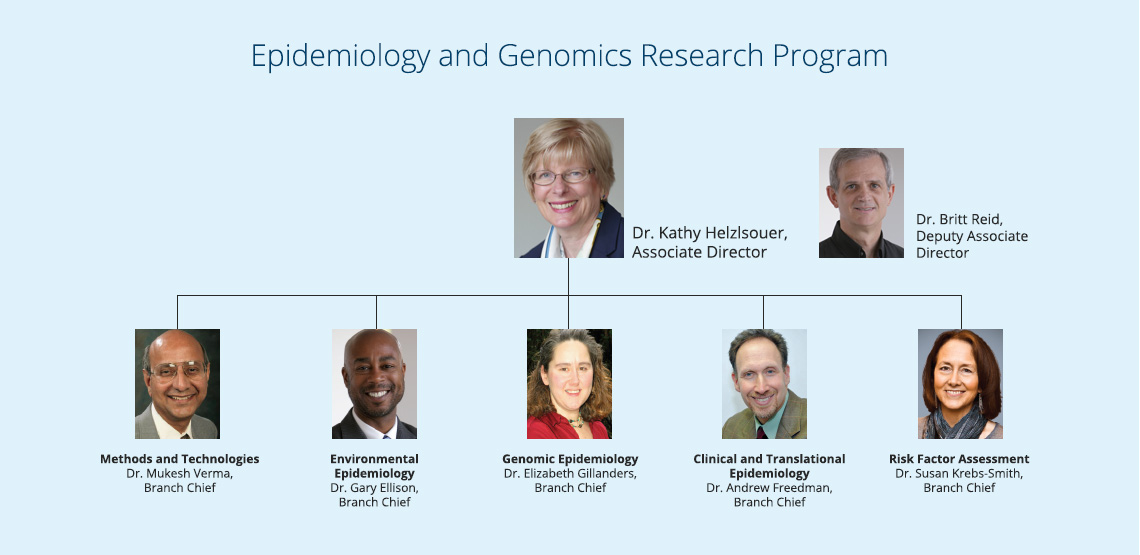
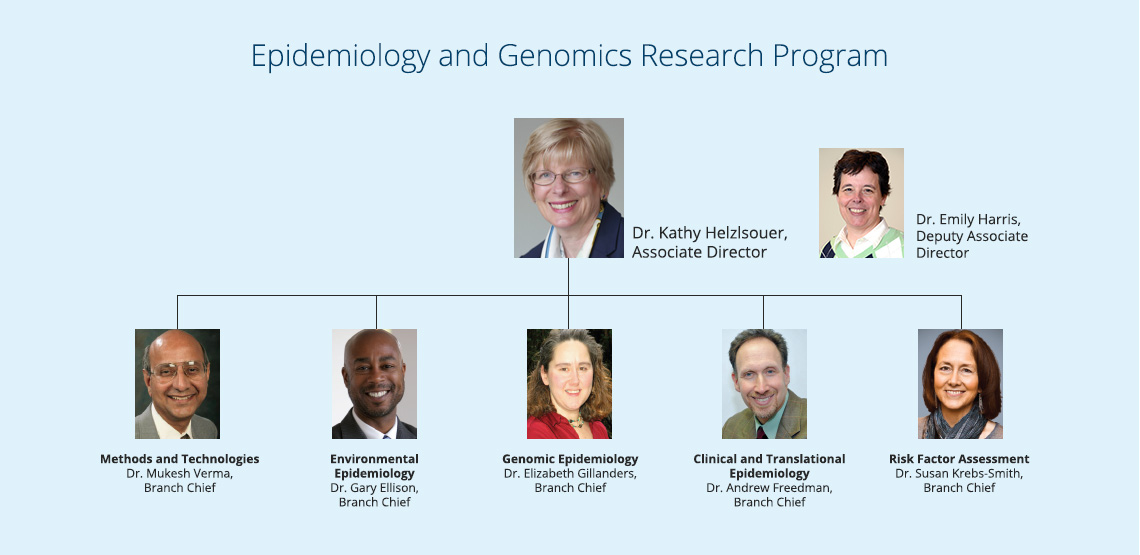
updates to org chart and responsive updates

Changed region(s): [[0.7061, 0.245, 0.7982, 0.4901], [0.8289, 0.3676, 0.8904, 0.4288]]

diff --git a/od/orgchart.html b/od/orgchart.html
@@ -246,35 +246,38 @@ height="0" width="0" style="display:none;visibility:hidden" title="Google Tag Ma
         <div class="col-md-9">
         <!-- InstanceBeginEditable name="Main-Content" -->
                   
-                  	<img src="../images/bb_org-sm.jpg" alt="Orgchart" width="877" height="1150" border="0" usemap="#map3" />
-                  	<map name="map3"><area shape="rect" coords="552,152,865,229" href="/od/srinivasan.html" alt="Dr. Shobha Srinivasan, Health Disparities Research Coordinator">
-                  	<area shape="rect" coords="53,493,403,556" href="https://healthcaredelivery.cancer.gov/about/" alt="Health Systems and Interventions Research - Dr. Sarah Korbin" >
-                  	<area shape="rect" coords="55,303,407,364" href="https://healthcaredelivery.cancer.gov/about/" alt="Healthcare Assessment Research - Dr. Paul Jacobson" >
-                  	<area shape="rect" coords="54,870,406,930" href="https://epi.grants.cancer.gov/eeb/" alt="Environmental Epidemiology - Dr. Gary Ellison">
-                  	<area shape="rect" coords="492,430,844,490" href="https://surveillance.cancer.gov/branches/dqaib/" alt="Data Quality, analysis, and Interpretation - Serban Negoita"><area shape="rect" coords="510,804,848,866" href="/brp/" alt="Behavioral Research Program - Dr. Linda Nebeling, deputy associate director">
-                    <area shape="rect" coords="10,152,325,229" href="/IS/chambers.html" alt="Deputy Director for Implementation Science - Dr. David Chambers">
-        			<area shape="rect" coords="491,620,841,682" href="https://surveillance.cancer.gov/branches/srab/" alt="Statistical Methodology and Applications - Dr. Eric Feuer">
-					<area shape="rect" coords="54,995,404,1057" href="https://epi.grants.cancer.gov/cteb/" alt="Clinical and Translational Epidemiology Branch - Dr. Andrew Feedman">
-					<area shape="rect" coords="491,492,842,554" href="https://surveillance.cancer.gov/branches/sib/" alt="Surveillance Informatics - Dr. Paul Fearn">
-					<area shape="rect" coords="54,1058,405,1120" href="https://epi.grants.cancer.gov/staff/krebs-smith.html" alt="Risk Factor Assessment - Dr. Susan Krebs-Smith">
-					<area shape="rect" coords="492,1059,849,1119" href="/brp/tcrb/"  alt="Tobacco Control Research Branch - Dr. Michele Bloch" >
-					<area shape="rect" coords="492,931,849,992" href="/brp/hbrb/index.html" alt="Health Behaviors Research Branch - Dr. Susan Czajkowski">
-					<area shape="rect" coords="492,994,848,1055" href="/brp/hcirb/" alt="Health Communication &amp; Informatics Research Branch - Dr. Bradford Hesse">
-					<area shape="rect" coords="55,933,405,992" href="https://epi.grants.cancer.gov/geb/" alt="Genomic Epidemiology - Dr. Elizabeth Gillanders">
-					<area shape="rect" coords="492,556,841,616" href="https://surveillance.cancer.gov/branches/dqaib/" alt="Data Analysis - Dr. Serban Negoita">
-					<area shape="rect" coords="53,556,403,618" href="https://healthcaredelivery.cancer.gov/about/orb/" alt="Outcomes Research Branch - Dr. Ashley Wilder Smith" >
-					<area shape="rect" coords="54,432,404,492" href="https://healthcaredelivery.cancer.gov/about/harb/" alt="Healthcare Assessment Research - Dr. Paul Doria-Rose" >
-					<area shape="rect" coords="492,868,847,929" href="/brp/bbpsb/index.html" alt="Basic Behavioral &amp; Research Branch - Dr. Paige Green" >
-					<area shape="rect" coords="71,743,408,806" href="https://epi.grants.cancer.gov/oad/" alt="Epidemiology &amp; Genomics Research Program - Dr. Britt Reid, deputy associate director">
-					<area shape="rect" coords="509,367,843,429" href="https://surveillance.cancer.gov/" alt="Surveillance Systems - Dr. Kathleen Cronin, deputy associate director">
-					<area shape="rect" coords="53,367,405,429" href="https://healthcaredelivery.cancer.gov/about/staff/bios/geiger.html" alt="Health Services &amp; Economics Branch - Dr. Ann Geiger">
-					<area shape="rect" coords="53,807,407,867" href="https://epi.grants.cancer.gov/mtb/" alt="Methods and Technologies Branch - Dr. Mukesh Verma">
-					<area shape="rect" coords="491,302,840,365" href="https://surveillance.cancer.gov/"  alt="Surveillance Research Program - Dr. Lynn Penberthy, associate director">
-					<area shape="rect" coords="491,741,849,803" href="/brp/" alt="Behavioral Research Program - Dr. William Klein, associate director">
-					<area shape="rect" coords="52,679,407,742" href="https://epi.grants.cancer.gov/oad/" alt="Epidemiology &amp; Genomics Research Program - Kathy Helzlsouer, M.D., M.H.S., associate director">
-					<area shape="rect" coords="7,23,323,103" href="dep_director_dw.html" alt="Deputy Director Dr. Deborah M. Winn">
-				  <area shape="rect" coords="373,10,505,217" href="view_rtc.html" alt="Officer of the Director Dr. Robert T Croyle, Director">
-				  <area shape="rect" coords="551,26,865,103" href="/ocs/" alt="Office of Cancer Survivorship - Dr. Julia H. Rowland, Director"></map>
+                  	<div class="row"><div class="col-md-12"><img src="../images/bb_org-sm.jpg" style="width:100%;" alt="Orgchart" usemap="#map3" />
+                    </div></div>
+                    
+                    
+                  	<map name="map3"><area shape="rect" coords="735,201,1147,302" href="/od/srinivasan.html" alt="Dr. Shobha Srinivasan, Health Disparities Research Coordinator">
+                  	<area shape="rect" coords="72,660,539,739" href="https://healthcaredelivery.cancer.gov/about/" alt="Health Systems and Interventions Research - Dr. Sarah Korbin" >
+                  	<area shape="rect" coords="72,406,539,486" href="https://healthcaredelivery.cancer.gov/about/" alt="Healthcare Assessment Research - Dr. Paul Jacobson" >
+                  	<area shape="rect" coords="71,1162,539,1240" href="https://epi.grants.cancer.gov/eeb/" alt="Environmental Epidemiology - Dr. Gary Ellison">
+                  	<area shape="rect" coords="655,574,1123,654" href="https://surveillance.cancer.gov/branches/dqaib/" alt="Data Quality, analysis, and Interpretation - Serban Negoita"><area shape="rect" coords="681,1076,1124,1156" href="/brp/" alt="Behavioral Research Program - Dr. Linda Nebeling, deputy associate director">
+                    <area shape="rect" coords="22,201,435,302" href="/IS/chambers.html" alt="Deputy Director for Implementation Science - Dr. David Chambers">
+        			<area shape="rect" coords="656,829,1122,907" href="https://surveillance.cancer.gov/branches/srab/" alt="Statistical Methodology and Applications - Dr. Eric Feuer">
+					<area shape="rect" coords="71,1331,539,1409" href="https://epi.grants.cancer.gov/cteb/" alt="Clinical and Translational Epidemiology Branch - Dr. Andrew Feedman">
+					<area shape="rect" coords="656,660,1123,740" href="https://surveillance.cancer.gov/branches/sib/" alt="Surveillance Informatics - Dr. Paul Fearn">
+					<area shape="rect" coords="73,1415,538,1494" href="https://epi.grants.cancer.gov/staff/krebs-smith.html" alt="Risk Factor Assessment - Dr. Susan Krebs-Smith">
+					<area shape="rect" coords="656,1414,1123,1493" href="/brp/tcrb/"  alt="Tobacco Control Research Branch - Dr. Michele Bloch" >
+					<area shape="rect" coords="657,1245,1123,1324" href="/brp/hbrb/index.html" alt="Health Behaviors Research Branch - Dr. Susan Czajkowski">
+					<area shape="rect" coords="655,1329,1123,1408" href="/brp/hcirb/" alt="Health Communication &amp; Informatics Research Branch - Dr. Bradford Hesse">
+					<area shape="rect" coords="73,1247,540,1325" href="https://epi.grants.cancer.gov/geb/" alt="Genomic Epidemiology - Dr. Elizabeth Gillanders">
+					<area shape="rect" coords="655,744,1122,822" href="https://surveillance.cancer.gov/branches/dqaib/" alt="Data Analysis - Dr. Serban Negoita">
+					<area shape="rect" coords="72,744,539,823" href="https://healthcaredelivery.cancer.gov/about/orb/" alt="Outcomes Research Branch - Dr. Ashley Wilder Smith" >
+					<area shape="rect" coords="72,576,539,655" href="https://healthcaredelivery.cancer.gov/about/harb/" alt="Healthcare Assessment Research - Dr. Paul Doria-Rose" >
+					<area shape="rect" coords="657,1160,1123,1240" href="/brp/bbpsb/index.html" alt="Basic Behavioral &amp; Research Branch - Dr. Paige Green" >
+					<area shape="rect" coords="96,993,539,1073" href="https://www.nidcr.nih.gov/imagegallery/people/EHarris.htm" alt="Epidemiology &amp; Genomics Research Program - Dr. Emily Harris, deputy associate director">
+					<area shape="rect" coords="680,491,1124,571" href="https://surveillance.cancer.gov/" alt="Surveillance Systems - Dr. Kathleen Cronin, deputy associate director">
+					<area shape="rect" coords="96,492,539,571" href="https://healthcaredelivery.cancer.gov/about/staff/bios/geiger.html" alt="Health Services &amp; Economics Branch - Dr. Ann Geiger">
+					<area shape="rect" coords="73,1078,539,1156" href="https://epi.grants.cancer.gov/mtb/" alt="Methods and Technologies Branch - Dr. Mukesh Verma">
+					<area shape="rect" coords="656,407,1123,486" href="https://surveillance.cancer.gov/"  alt="Surveillance Research Program - Dr. Lynn Penberthy, associate director">
+					<area shape="rect" coords="657,992,1124,1070" href="/brp/" alt="Behavioral Research Program - Dr. William Klein, associate director">
+					<area shape="rect" coords="72,909,539,991" href="https://epi.grants.cancer.gov/oad/" alt="Epidemiology &amp; Genomics Research Program - Kathy Helzlsouer, M.D., M.H.S., associate director">
+					<area shape="rect" coords="22,36,435,137" href="dep_director_dw.html" alt="Deputy Director Dr. Deborah M. Winn">
+				  <area shape="rect" coords="501,19,669,286" href="view_rtc.html" alt="Officer of the Director Dr. Robert T Croyle, Director">
+				  <area shape="rect" coords="735,36,1148,137" href="/ocs/" alt="Office of Cancer Survivorship - Dr. Julia H. Rowland, Director"></map>
                 <!-- InstanceEndEditable -->
         </div> <!-- /.col-md-9 -->
 	</div> <!-- close /.row -->
@@ -341,7 +344,7 @@ height="0" width="0" style="display:none;visibility:hidden" title="Google Tag Ma
 			<div class="row">
 				<div class="col-lg-12">
 					<p class="tagline">NIH...Turning Discovery Into Health<sup>®</sup></p>
-					<p class="update"><span class="bold">Last Updated:</span> <!-- InstanceBeginEditable name="Last Updated" -->January  10, 2017<!-- InstanceEndEditable --></p>
+					<p class="update"><span class="bold">Last Updated:</span> <!-- InstanceBeginEditable name="Last Updated" -->September  13, 2017<!-- InstanceEndEditable --></p>
 				</div> <!-- /.col-lg-12 -->
 			</div> <!-- /.row -->
 		</div><!-- /.col-md-8 .col-md-offset-1 -->

diff --git a/bb/index.html b/bb/index.html
@@ -60,9 +60,9 @@ j=d.createElement(s),dl=l!='dataLayer'?'&l='+l:'';j.async=true;j.src=
 
 				<div class="cd-project-info leadership">
 					
-            <div style="max-width:1009px"><img src="/bb/images/OrgChart.jpg" alt="Organization chart of DCCPS, with 4 research programs" width="1009" height="410" usemap="#imagemap" class="org-chart"></div>
-            <map name="imagemap"><area shape="rect" coords="682,18,802,228" href="/od/srinivasan.html" alt="Dr. Shobha Sirnivasan, Health Disparities Research Coordinator"><area shape="rect" coords="483,18,603,228" href="../IS/chambers.html" alt="Deputy Director for Implementation Science. Dr. David Chambers"><area shape="rect" coords="284,18,403,227" href="../od/dep_director_dw.html" alt="Deputy Director. Dr. Deborah Winn"><area shape="rect" coords="882,18,1001,229" href="/ocs/about/director-page.html" alt="Office of Cancer Survivorship. Dr. Julia Rowland">
-              <area shape="rect" coords="84,17,205,229" href="../od/director_rc.html" alt="Office of the Director. Dr. Robert Croyle, Director">
+            <div style="max-width:1009px"><img src="/bb/images/OrgChart.jpg" alt="Organization chart of DCCPS, with 4 research programs" usemap="#imagemap" class="org-chart" style="max-width:100%; height:auto;"></div>
+            <map name="imagemap"><area shape="rect" coords="770,20,906,256" href="/od/srinivasan.html" alt="Dr. Shobha Sirnivasan, Health Disparities Research Coordinator"><area shape="rect" coords="547,20,682,256" href="../IS/chambers.html" alt="Deputy Director for Implementation Science. Dr. David Chambers"><area shape="rect" coords="322,20,458,256" href="../od/dep_director_dw.html" alt="Deputy Director. Dr. Deborah Winn"><area shape="rect" coords="996,20,1132,256" href="/ocs/about/director-page.html" alt="Office of Cancer Survivorship. Dr. Julia Rowland">
+              <area shape="rect" coords="96,20,231,258" href="../od/director_rc.html" alt="Office of the Director. Dr. Robert Croyle, Director">
             </map>
             <ul id="myTab" class="nav nav-pills nav-justified">
   <li id="egrp"><a href="#tab_a" data-toggle="pill"><span>Epidemiology and Genomics Research Program</span></a></li>
@@ -73,25 +73,25 @@ j=d.createElement(s),dl=l!='dataLayer'?'&l='+l:'';j.async=true;j.src=
             
 <div class="tab-content">
         <div class="tab-pane" id="tab_a">
-            <img src="/bb/images/OrgChart-EGRP.jpg"  usemap="#imagemap-egrp" class="org-chart" alt="Epidemiology and Genomics Research Program" style="max-width:1140px; height:auto;">
-            <map name="imagemap-egrp"><area shape="rect" coords="99,327,260,493" href="https://epi.grants.cancer.gov/staff/verma.html" alt="Methods and technologies: Dr. Mukesh Verma, Branch Chief"><area shape="rect" coords="318,327,432,508" href="https://epi.grants.cancer.gov/staff/ellison.html" alt="Environmental Epidemiology: Dr. Gray Ellison, Acting Branch Chief"><area shape="rect" coords="501,327,640,493" href="https://epi.grants.cancer.gov/staff/gillanders.html" alt="Genomic Epidemiology: Dr. Elizabeth Gillanders, Branch Chief"><area shape="rect" coords="692,327,848,508" href="https://epi.grants.cancer.gov/staff/freedman.html" alt="Clinical and Translational Epidemiology: Dr. Andrew Freedman, Branch Chief"><area shape="rect" coords="887,327,1032,496" href="https://epi.grants.cancer.gov/staff/krebs-smith.html" alt="Risk Factor Assessment: Dr. Susan Krebs-Smith, Branch Chief"><area shape="rect" coords="819,146,1029,257" href="https://epi.grants.cancer.gov/staff/reid.html" alt="Dr. Britt Reid, Deputy Associate Director">
+            <img src="/bb/images/OrgChart-EGRP.jpg"  usemap="#imagemap-egrp" class="org-chart" alt="Epidemiology and Genomics Research Program" style="max-width:100%; height:auto;">
+            <map name="imagemap-egrp"><area shape="rect" coords="99,327,260,493" href="https://epi.grants.cancer.gov/staff/verma.html" alt="Methods and technologies: Dr. Mukesh Verma, Branch Chief"><area shape="rect" coords="318,327,432,508" href="https://epi.grants.cancer.gov/staff/ellison.html" alt="Environmental Epidemiology: Dr. Gray Ellison, Acting Branch Chief"><area shape="rect" coords="501,327,640,493" href="https://epi.grants.cancer.gov/staff/gillanders.html" alt="Genomic Epidemiology: Dr. Elizabeth Gillanders, Branch Chief"><area shape="rect" coords="692,327,848,508" href="https://epi.grants.cancer.gov/staff/freedman.html" alt="Clinical and Translational Epidemiology: Dr. Andrew Freedman, Branch Chief"><area shape="rect" coords="887,327,1032,496" href="https://epi.grants.cancer.gov/staff/krebs-smith.html" alt="Risk Factor Assessment: Dr. Susan Krebs-Smith, Branch Chief"><area shape="rect" coords="819,146,1029,257" href="https://www.nidcr.nih.gov/imagegallery/people/EHarris.htm" alt="Dr. Emily Harris, Deputy Associate Director">
               <area shape="rect" coords="514,117,792,259" href="https://epi.grants.cancer.gov/oad/" alt="Kathy Helzlsouer, M.D., M.H.S., Associate Director">
             </map>
       </div>
         <div class="tab-pane" id="tab_b">
-          <img src="/bb/images/OrgChart-SRP.jpg"  usemap="#imagemap-srp" class="org-chart" alt="Surveillance Research Program" style="max-width:1140px; height:auto;">
+          <img src="/bb/images/OrgChart-SRP.jpg"  usemap="#imagemap-srp" class="org-chart" alt="Surveillance Research Program" style="max-width:100%; height:auto;">
             <map name="imagemap-srp"><area shape="rect" coords="199,326,336,508" href="https://surveillance.cancer.gov/about/bios/negoita.html" alt="Data Quality, Analysis, and Interpretation: Dr. Serban Negoita, Branch Chief"><area shape="rect" coords="398,326,545,509" href="https://surveillance.cancer.gov/about/bios/fearnp.html" alt="Surveillance Informatics: Dr. Paul Fearn, Branch Chief"><area shape="rect" coords="611,330,728,497" href="https://surveillance.cancer.gov/about/bios/mariottoa.html" alt="Data Analysis: Dr. Angela Mariotto, Branch Chief"><area shape="rect" coords="808,328,926,511" href="https://surveillance.cancer.gov/about/bios/feuerr.html" alt="Statistical Methods and Modeling: Dr. Eric Feuer, Branch Chief"><area shape="rect" coords="818,148,1050,259" href="https://surveillance.cancer.gov/about/bios/cronink.html" alt="Dr. Kathleen Cronin, Deputy Associate Director">
               <area shape="rect" coords="514,118,768,258" href="https://surveillance.cancer.gov/about/bios/penberthyl.html" alt="Dr. Lynne Penberthy, Associate Director">
             </map>
         </div>
         <div class="tab-pane" id="tab_c">
-            <img src="/bb/images/OrgChart-BRP.jpg"  usemap="#imagemap-brp" class="org-chart" alt="Behavioral Research Program" style="max-width:1140px; height:auto;">
+            <img src="/bb/images/OrgChart-BRP.jpg"  usemap="#imagemap-brp" class="org-chart" alt="Behavioral Research Program" style="max-width:100%; height:auto;">
             <map name="imagemap-brp"><area shape="rect" coords="197,327,351,509" href="/brp/bbpsb/" alt="Basic Biobehavioral and Psychological Sciences: Dr. Paige Green, Branch Chief"><area shape="rect" coords="401,328,536,509" href="/brp/hbrb/" alt="Health Behaviors Research: Dr. Susan Czajkowski, Branch Chief"><area shape="rect" coords="584,328,741,509" href="/brp/hcirb/" alt="Health Communication and Informatics Research: Dr. Bradford Hesse, Branch Chief"><area shape="rect" coords="806,328,910,509" href="/brp/tcrb/" alt="Tobacco Control Research: Dr. Michele Bloch, Branch Chief"><area shape="rect" coords="819,147,1041,258" href="/brp/" alt="Dr. Linda Nebeling, Deputy Associate Director">
               <area shape="rect" coords="514,118,769,259" href="/brp/" alt="Dr. William Klein, Associate Director">
             </map>
       </div>
         <div class="tab-pane" id="tab_d">
-          <img src="/bb/images/OrgChart-HDRP.jpg"  usemap="#imagemap-hdrp" class="org-chart" alt="Healthcare Delivery Research Program" style="max-width:1140px; height:auto;">
+          <img src="/bb/images/OrgChart-HDRP.jpg"  usemap="#imagemap-hdrp" class="org-chart" alt="Healthcare Delivery Research Program" style="max-width:100%; height:auto;">
             <map name="imagemap-hdrp"><area shape="rect" coords="303,327,446,508" href="https://healthcaredelivery.cancer.gov/about/staff/bios/doriarose.html" alt="Healthcare Assessment Research: Dr. Paul Doria-ROse, Acting Branch Chief"><area shape="rect" coords="498,327,641,508" href="https://healthcaredelivery.cancer.gov/about/staff/bios/kobrin.html" alt="Health Systems and Interventions Research: Dr. Sarah Kobrin, Acting Branch Chief"><area shape="rect" coords="702,327,839,493" href="https://healthcaredelivery.cancer.gov/about/staff/bios/smith.html" alt="Outcomes Research: Dr. Ashley Wilder Smith, Branch Chief"><area shape="rect" coords="818,146,1042,258" href="https://healthcaredelivery.cancer.gov/about/staff/bios/geiger.html" alt="Dr. Ann Geiger, Deputy Associate Director">
               <area shape="rect" coords="514,117,770,258" href="https://healthcaredelivery.cancer.gov/about/staff/bios/jacobsen.html" alt="Dr. Paul Jacobsen, Associate Director">
             </map>

diff --git a/js/ocs-wheel.js b/js/ocs-wheel.js
@@ -33,7 +33,7 @@ var terms = [
 		'term': 'special-populations',
 		'title': 'Special Populations',
 		'definition': 'Examples of special populations on which studies focus: pediatric patients, adolescents and young adults, and caregivers and families. This area of work also includes the study of neighborhood effects on health.',
-		'contacts': '<table summary="Contact information for Special Populations."><thead><tr><th scope="col">Topics</th><th scope="col">Program Director</th></tr></thead><tbody><tr><td>Adolescents and young adult cancer survivors</td><td><a href="https://healthcaredelivery.cancer.gov/about/staff/bios/kent.html">Erin Kent, PhD, MS</a></td></tr><tr><td>&nbsp;</td><td><a href="https://healthcaredelivery.cancer.gov/about/staff/bios/smith.html">Ashley Wilder Smith, PhD, MPH</a></td></tr><tr><td>Cancer survivors age ≥65</td><td><a href="https://staffprofiles.cancer.gov/brp/prgmStaffProfile.do?contactId=1462&amp;bioType=stf">Erica Breslau, PhD, MPH</a></td></tr><tr><td>&nbsp;</td><td><a href="https://healthcaredelivery.cancer.gov/about/staff/bios/kent.html">Erin Kent, PhD, MS</a></td></tr><tr><td>&nbsp;</td><td><a href="https://healthcaredelivery.cancer.gov/about/staff/bios/mitchell.html">Sandra A. Mitchell, PhD, CRNP</a></td></tr><tr><td>&nbsp;</td><td><a href="/ocs/about/director-page.html">Julia Rowland, PhD</a></td></tr><tr><td>Caregivers and families</td><td><a href="https://staffprofiles.cancer.gov/brp/prgmStaffProfile.do?contactId=993308&amp;bioType=stf">Wen-Ying Chou, PhD, MPH</a></td></tr><tr><td>&nbsp;</td><td><a href="https://healthcaredelivery.cancer.gov/about/staff/bios/kent.html">Erin Kent, PhD, MS</a></td></tr><tr><td>&nbsp;</td><td><a href="https://healthcaredelivery.cancer.gov/about/staff/bios/mollica.html">Michelle  Mollica, PhD, MPH, RN</a></td></tr><tr><td>&nbsp;</td><td><a href="https://prevention.cancer.gov/about/staff/omara-ann">Ann O&#39;Mara, PhD, RN, FAAN</a></td></tr><tr><td>&nbsp;</td><td><a href="/ocs/about/director-page.html">Julia Rowland, PhD</a></td></tr><tr><td>&nbsp;</td><td><a href="https://epi.grants.cancer.gov/staff/shelburne.html">Nonniekaye Shelburne, CRNP, MS, AOCN</a></td></tr><tr><td>&nbsp;</td><td><a href="https://healthcaredelivery.cancer.gov/about/staff/bios/smith.html">Ashley Wilder Smith, PhD, MPH</a></td></tr><tr><td>Health disparities</td><td><a href="https://staffprofiles.cancer.gov/brp/prgmStaffProfile.do?contactId=1478&amp;bioType=stf">Tanya Agurs-Collins, PhD, RD</a></td></tr><tr><td>&nbsp;</td><td><a href="https://staffprofiles.cancer.gov/brp/prgmStaffProfile.do?contactId=1456&amp;bioType=stf">David Berrigan, PhD, MPH (acculturation)</a></td></tr><tr><td>&nbsp;</td><td><a href="https://staffprofiles.cancer.gov/brp/prgmStaffProfile.do?contactId=993308&amp;bioType=stf">Wen-Ying Chou, PhD, MPH</a></td></tr><tr><td>&nbsp;</td><td><a href="https://epi.grants.cancer.gov/staff/gallicchio.html">Lisa Gallicchio, Ph.D.</a></td></tr><tr><td>&nbsp;</td><td><a href="https://healthcaredelivery.cancer.gov/about/staff/bios/kent.html">Erin Kent, PhD, MS</a></td></tr><tr><td>&nbsp;</td><td><a href="/od/ODstaff.html#srin">Shobha Srinivasan, PhD</a></td></tr><tr><td>Hematopoietic stem cell transplant survivors</td><td><a href="https://healthcaredelivery.cancer.gov/about/staff/bios/mitchell.html">Sandra A. Mitchell, PhD, CRNP</a></td></tr><tr><td>&nbsp;</td><td><a href="https://epi.grants.cancer.gov/staff/shelburne.html">Nonniekaye Shelburne, CRNP, MS, AOCN</a></td></tr><tr><td>Neighborhood effects on health</td><td><a href="https://staffprofiles.cancer.gov/brp/prgmStaffProfile.do?contactId=1456&amp;bioType=stf">David Berrigan, PhD, MPH</a></td></tr><tr><td>Pediatric cancer survivors</td><td><a href="https://healthcaredelivery.cancer.gov/about/staff/bios/mollica.html">Michelle  Mollica, PhD, MPH, RN</a></td></tr><tr><td>&nbsp;</td><td><a href="https://prevention.cancer.gov/about/staff/omara-ann">Ann O&#39;Mara, PhD, RN, FAAN</a></td></tr><tr><td>&nbsp;</td><td><a href="https://healthcaredelivery.cancer.gov/about/staff/bios/smith.html">Ashley Wilder Smith, PhD, MPH</a></td></tr></tbody></table>'
+		'contacts': '<table summary="Contact information for Special Populations."><thead><tr><th scope="col">Topics</th><th scope="col">Program Director</th></tr></thead><tbody><tr><td>Adolescents and young adult cancer survivors</td><td><a href="https://healthcaredelivery.cancer.gov/about/staff/bios/kent.html">Erin Kent, PhD, MS</a></td></tr><tr><td>&nbsp;</td><td><a href="https://healthcaredelivery.cancer.gov/about/staff/bios/smith.html">Ashley Wilder Smith, PhD, MPH</a></td></tr><tr><td>Cancer survivors age &ge;65</td><td><a href="https://staffprofiles.cancer.gov/brp/prgmStaffProfile.do?contactId=1462&amp;bioType=stf">Erica Breslau, PhD, MPH</a></td></tr><tr><td>&nbsp;</td><td><a href="https://healthcaredelivery.cancer.gov/about/staff/bios/kent.html">Erin Kent, PhD, MS</a></td></tr><tr><td>&nbsp;</td><td><a href="https://healthcaredelivery.cancer.gov/about/staff/bios/mitchell.html">Sandra A. Mitchell, PhD, CRNP</a></td></tr><tr><td>&nbsp;</td><td><a href="/ocs/about/director-page.html">Julia Rowland, PhD</a></td></tr><tr><td>Caregivers and families</td><td><a href="https://staffprofiles.cancer.gov/brp/prgmStaffProfile.do?contactId=993308&amp;bioType=stf">Wen-Ying Chou, PhD, MPH</a></td></tr><tr><td>&nbsp;</td><td><a href="https://healthcaredelivery.cancer.gov/about/staff/bios/kent.html">Erin Kent, PhD, MS</a></td></tr><tr><td>&nbsp;</td><td><a href="https://healthcaredelivery.cancer.gov/about/staff/bios/mollica.html">Michelle  Mollica, PhD, MPH, RN</a></td></tr><tr><td>&nbsp;</td><td><a href="https://prevention.cancer.gov/about/staff/omara-ann">Ann O&#39;Mara, PhD, RN, FAAN</a></td></tr><tr><td>&nbsp;</td><td><a href="/ocs/about/director-page.html">Julia Rowland, PhD</a></td></tr><tr><td>&nbsp;</td><td><a href="https://epi.grants.cancer.gov/staff/shelburne.html">Nonniekaye Shelburne, CRNP, MS, AOCN</a></td></tr><tr><td>&nbsp;</td><td><a href="https://healthcaredelivery.cancer.gov/about/staff/bios/smith.html">Ashley Wilder Smith, PhD, MPH</a></td></tr><tr><td>Health disparities</td><td><a href="https://staffprofiles.cancer.gov/brp/prgmStaffProfile.do?contactId=1478&amp;bioType=stf">Tanya Agurs-Collins, PhD, RD</a></td></tr><tr><td>&nbsp;</td><td><a href="https://staffprofiles.cancer.gov/brp/prgmStaffProfile.do?contactId=1456&amp;bioType=stf">David Berrigan, PhD, MPH (acculturation)</a></td></tr><tr><td>&nbsp;</td><td><a href="https://staffprofiles.cancer.gov/brp/prgmStaffProfile.do?contactId=993308&amp;bioType=stf">Wen-Ying Chou, PhD, MPH</a></td></tr><tr><td>&nbsp;</td><td><a href="https://epi.grants.cancer.gov/staff/gallicchio.html">Lisa Gallicchio, Ph.D.</a></td></tr><tr><td>&nbsp;</td><td><a href="https://healthcaredelivery.cancer.gov/about/staff/bios/kent.html">Erin Kent, PhD, MS</a></td></tr><tr><td>&nbsp;</td><td><a href="/od/ODstaff.html#srin">Shobha Srinivasan, PhD</a></td></tr><tr><td>Hematopoietic stem cell transplant survivors</td><td><a href="https://healthcaredelivery.cancer.gov/about/staff/bios/mitchell.html">Sandra A. Mitchell, PhD, CRNP</a></td></tr><tr><td>&nbsp;</td><td><a href="https://epi.grants.cancer.gov/staff/shelburne.html">Nonniekaye Shelburne, CRNP, MS, AOCN</a></td></tr><tr><td>Neighborhood effects on health</td><td><a href="https://staffprofiles.cancer.gov/brp/prgmStaffProfile.do?contactId=1456&amp;bioType=stf">David Berrigan, PhD, MPH</a></td></tr><tr><td>Pediatric cancer survivors</td><td><a href="https://healthcaredelivery.cancer.gov/about/staff/bios/mollica.html">Michelle  Mollica, PhD, MPH, RN</a></td></tr><tr><td>&nbsp;</td><td><a href="https://prevention.cancer.gov/about/staff/omara-ann">Ann O&#39;Mara, PhD, RN, FAAN</a></td></tr><tr><td>&nbsp;</td><td><a href="https://healthcaredelivery.cancer.gov/about/staff/bios/smith.html">Ashley Wilder Smith, PhD, MPH</a></td></tr></tbody></table>'
 	}, {
 		'term': 'economic-impact',
 		'title': 'Economic Impact of Cancer',
@@ -121,7 +121,7 @@ $(document).ready(function() {
 
 // scroll animation
 $(function() {
-	$('area[href*=#]:not([href=#])').click(function() {
+	$('.tooltip').click(function() {
 		if (location.pathname.replace(/^\//,'') == this.pathname.replace(/^\//,'') && location.hostname == this.hostname) {
 			var target = $(this.hash);
 			target = target.length ? target : $('[name=' + this.hash.slice(1) +']');

diff --git a/ocs/about/staff.html b/ocs/about/staff.html
@@ -175,7 +175,7 @@ Survivorship Research</a></li>
 
 					<h2>Survivorship Program Contacts at NCI</h2>
 					<p>The Cancer Survivorship image below provides quick links to program directors who specialize in different areas of cancer survivorship. If you are not able to identify an individual in your area of interest, please contact <a href="/ocs/about/director-page.html" style="color: #003399;" >Dr. Julia Rowland</a>, Director, Office of Cancer Survivorship, at <a href="mailto:rowlandj@mail.nih.gov">rowlandj@mail.nih.gov</a> or 240-276-6827.</p>
-					<img src="../Images/ocs-wheel.gif" alt="Survivorship Program Contacts at NCI" usemap="#survivorship"/>
+					<div style="max-width:600px"><img src="../Images/ocs-wheel.gif" alt="Survivorship Program Contacts at NCI" style="max-width:100%; height:auto;" usemap="#survivorship"/></div>
 					<map name="survivorship">
 						<area shape="poly" class="tooltip" id="physical-symptoms" alt="Physical Symptoms &amp; Conditions" coords="205,18,236,8,267,3,298,2,329,3,362,8,382,14,395,18,357,121,339,116,322,113,300,135,277,113,260,116,242,121" href="#scroll">
 						<area shape="poly" class="tooltip" id="psycho-social" alt="Physcho-social Concerns" coords="410,23,372,126,389,133,404,143,406,173,438,171,449,184,460,200,554,146,538,119,515,93,488,67,461,48,437,34" href="#scroll">
@@ -339,7 +339,7 @@ $(document).ready(function(){
 		<script src="../../js/ocs-wheel.js"></script>
 		<script src="../../js/jquery.rwdImageMaps.min.js"></script>
     <script>
-    $(document).ready(function() {
+    $(document).ready(function(e) {
         $('img[usemap]').rwdImageMaps();
     });
 	</script><!-- InstanceEndEditable -->
